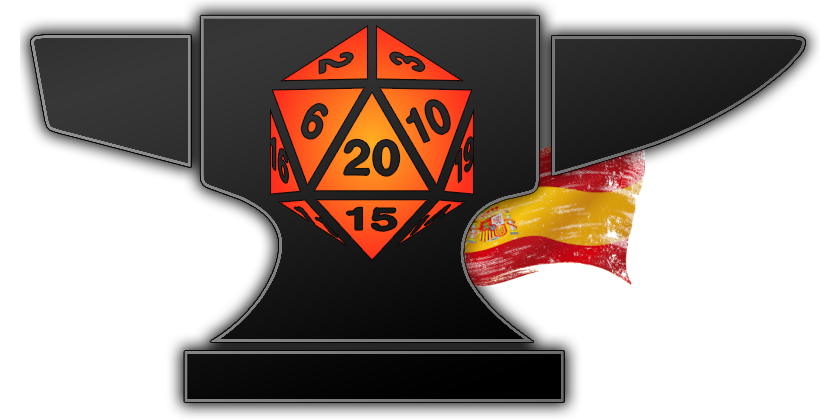
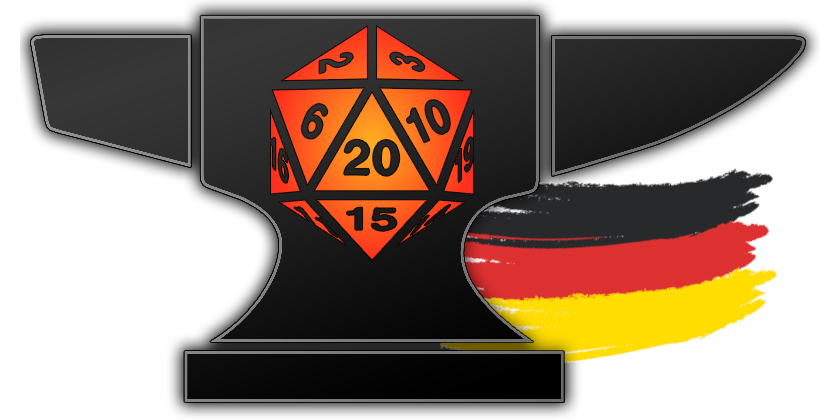
Updated 0.5.4

Changed region(s): [[0.5262, 0.3405, 0.9286, 0.8667]]

diff --git a/babele-register.js b/babele-register.js
@@ -4,7 +4,7 @@ Hooks.once('init', () => {
 
 		Babele.get().register({
 			module: 'call-of-cthulhu-7th-babele-de',
-			lang: 'es',
+			lang: 'de',
 			dir: 'compendium'
 		});
 		
